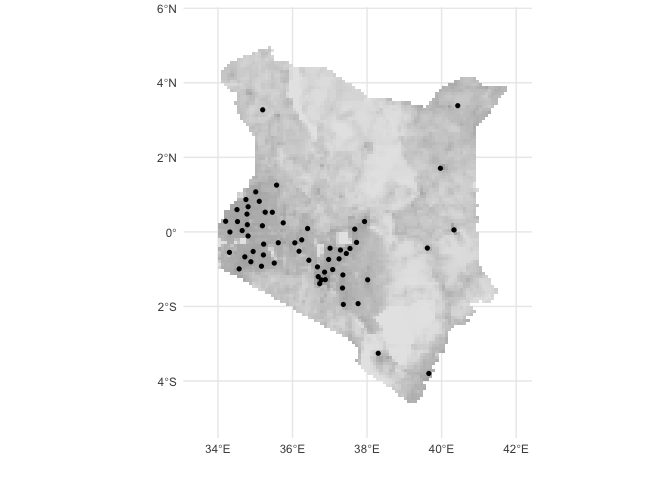
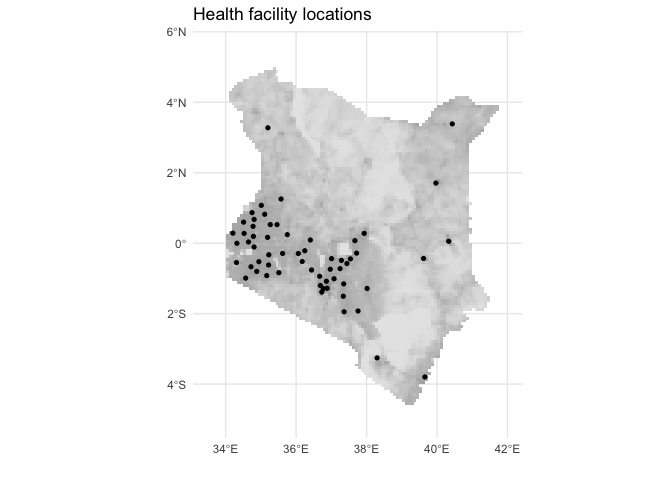
fix up plot titles

diff --git a/README.md b/README.md
@@ -438,7 +438,8 @@ ggplot() +
   ) +
   xlab("") +
   ylab("") +
-  theme_minimal()
+  theme_minimal() +
+  ggtitle("Health facility locations")
 ```
 
 ![](README_files/figure-gfm/vis_data_1-1.png)<!-- -->
@@ -472,7 +473,8 @@ ggplot(
   scale_colour_discrete(
     guide = "none"
   ) +
-  scale_x_continuous(breaks = 1:12)
+  scale_x_continuous(breaks = 1:12) +
+  ggtitle("Clinical case timeseries")
 #> Warning: Removed 43 rows containing missing values or values outside the scale range
 #> (`geom_line()`).
 ```
@@ -511,7 +513,8 @@ ggplot() +
   ) +
   xlab("") +
   ylab("") +
-  theme_minimal()
+  theme_minimal() +
+  ggtitle("Prevalence surveys")
 ```
 
 ![](README_files/figure-gfm/vis_data_3-1.png)<!-- -->
